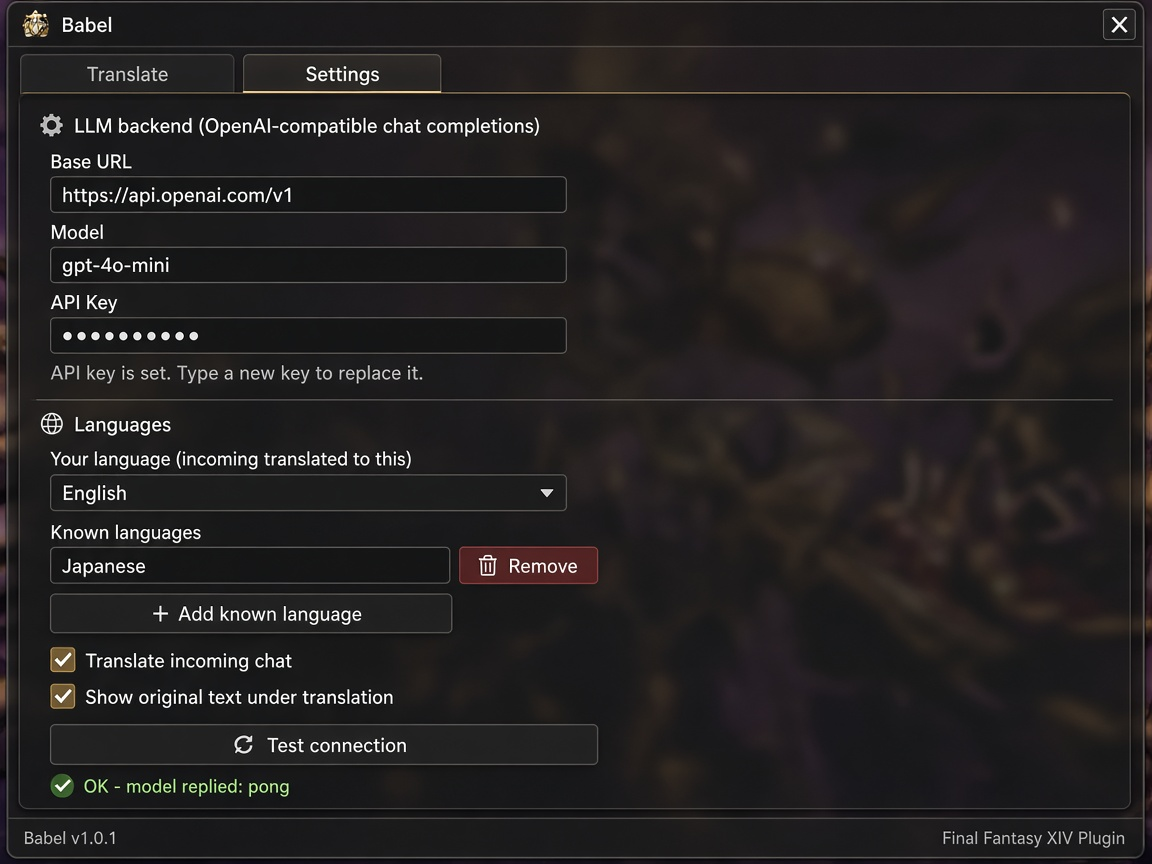
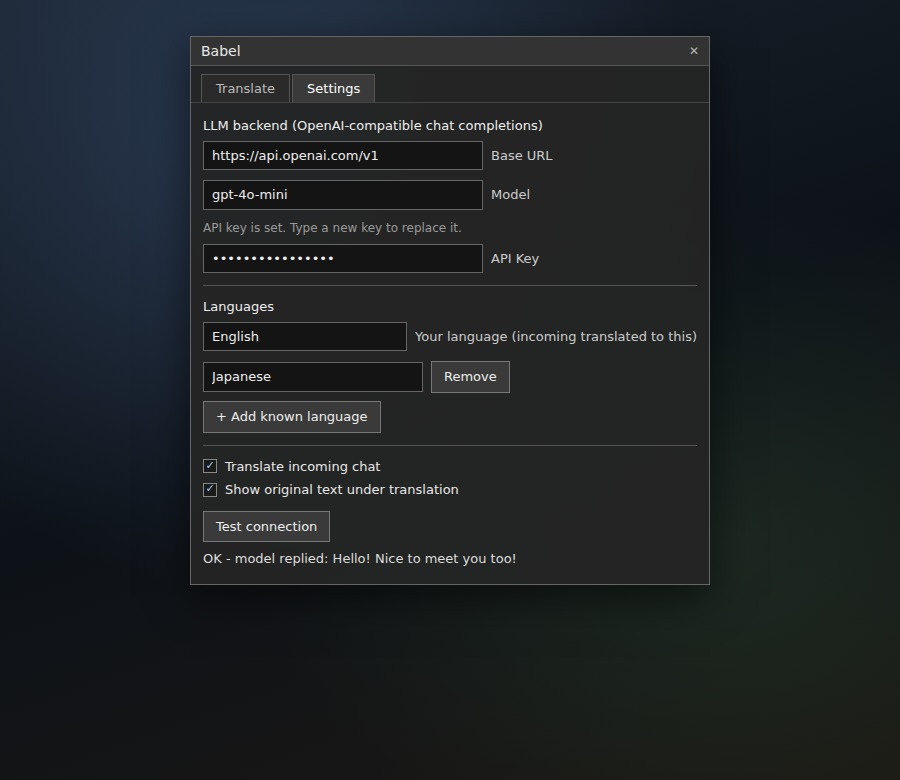
Update README screenshots to match the latest UI
Replace the stylized mockups with accurate ImGui-style window
shots and chat output using the current [babel Name: original]
follow-up format from the race-fix build.

diff --git a/README.md b/README.md
@@ -9,11 +9,13 @@ Bidirectional in-game chat translation for FFXIV, powered by any OpenAI-compatib
 
 ## Screenshots
 
-Simulated UI mockups (not captured in-game):
+Simulated mockups of the current window and chat output (not captured in-game):
 
 | Translate tab | Settings tab |
 | --- | --- |
 | ![Translate tab](docs/screenshots/babel-translate-tab.jpg) | ![Settings tab](docs/screenshots/babel-settings-tab.jpg) |
+
+Incoming chat prints a follow-up line with the translation and, when enabled, `[babel Name: original]` underneath:
 
 ![Incoming chat with translations](docs/screenshots/babel-chat-incoming.jpg)
 
